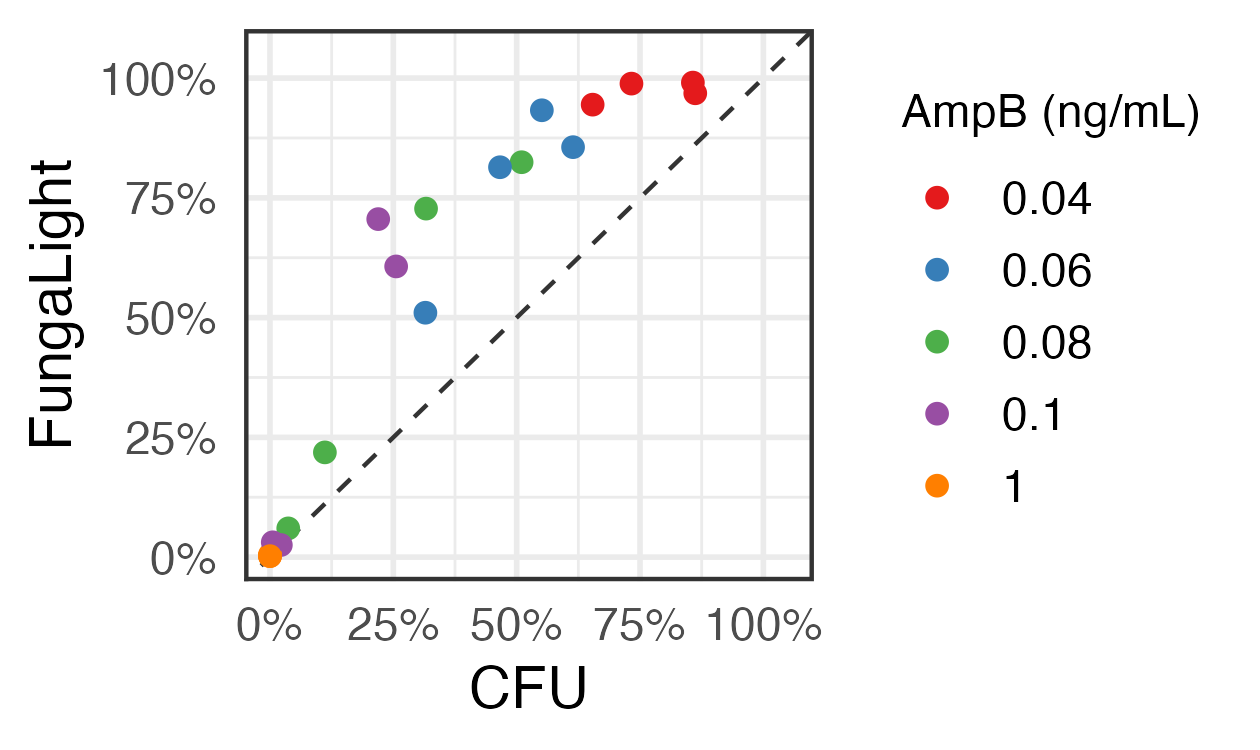
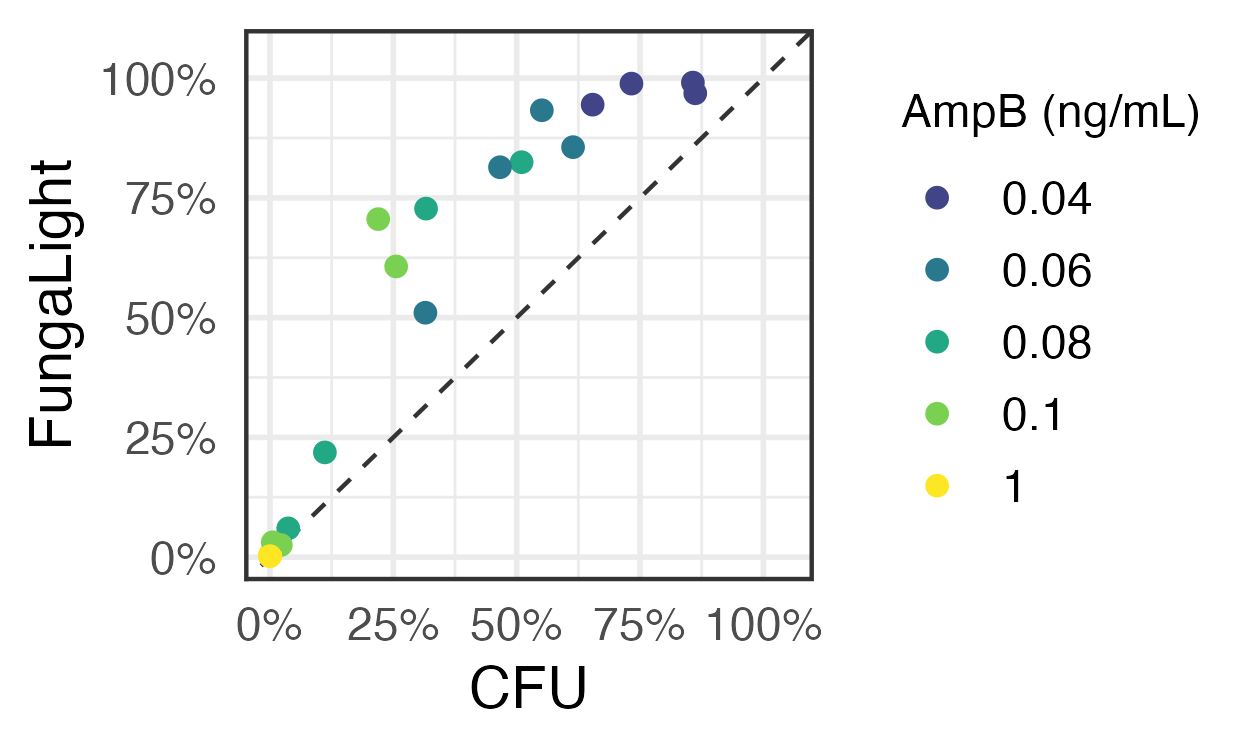
change stat test for CFU back to p_live
also changed color palettes for the scatter plot of CFU vs FGL for AmpB

diff --git a/30-Extend-across-species-stress/32-apply-to-AmpB/output/20250402-Cg-AmpB-CFU-FGL-stat-test-results.md b/30-Extend-across-species-stress/32-apply-to-AmpB/output/20250402-Cg-AmpB-CFU-FGL-stat-test-results.md
@@ -30,25 +30,25 @@ TukeyHSD(tmp)
   Tukey multiple comparisons of means
     95% family-wise confidence level
 
-Fit: aov(formula = CFU ~ Treatment, data = dplyr::filter(cfu_calc, Treatment != "0.02"))
+Fit: aov(formula = p_live ~ Treatment, data = dplyr::filter(cfu_calc, Treatment != "0.02"))
 
 $Treatment
-            diff        lwr        upr     p adj
-0.04-0    -20150  -45825.17   5525.174 0.1775675
-0.06-0    -44350  -70025.17 -18674.826 0.0004012
-0.08-0    -65175  -90850.17 -39499.826 0.0000029
-0.1-0     -74250  -99925.17 -48574.826 0.0000004
-1-0       -84750 -110425.17 -59074.826 0.0000001
-0.06-0.04 -24200  -49875.17   1475.174 0.0713736
-0.08-0.04 -45025  -70700.17 -19349.826 0.0003377
-0.1-0.04  -54100  -79775.17 -28424.826 0.0000359
-1-0.04    -64600  -90275.17 -38924.826 0.0000032
-0.08-0.06 -20825  -46500.17   4850.174 0.1537928
-0.1-0.06  -29900  -55575.17  -4224.826 0.0172606
-1-0.06    -40400  -66075.17 -14724.826 0.0011115
-0.1-0.08   -9075  -34750.17  16600.174 0.8654365
-1-0.08    -19575  -45250.17   6100.174 0.2000838
-1-0.1     -10500  -36175.17  15175.174 0.7814841
+                diff        lwr         upr     p adj
+0.04-0    -0.2235581 -0.4979459  0.05082975 0.1507038
+0.06-0    -0.5133742 -0.7877620 -0.23898636 0.0001580
+0.08-0    -0.7563515 -1.0307393 -0.48196365 0.0000009
+0.1-0     -0.8743160 -1.1487039 -0.59992822 0.0000001
+1-0       -1.0000000 -1.2743878 -0.72561218 0.0000000
+0.06-0.04 -0.2898161 -0.5642039 -0.01542829 0.0349819
+0.08-0.04 -0.5327934 -0.8071812 -0.25840559 0.0001006
+0.1-0.04  -0.6507580 -0.9251458 -0.37637016 0.0000074
+1-0.04    -0.7764419 -1.0508298 -0.50205412 0.0000006
+0.08-0.06 -0.2429773 -0.5173651  0.03141052 0.1004775
+0.1-0.06  -0.3609419 -0.6353297 -0.08655405 0.0063011
+1-0.06    -0.4866258 -0.7610136 -0.21223801 0.0002967
+0.1-0.08  -0.1179646 -0.3923524  0.15642324 0.7454969
+1-0.08    -0.2436485 -0.5180364  0.03073928 0.0990397
+1-0.1     -0.1256840 -0.4000718  0.14870386 0.6946001
 ```
 
 ### FGL/p_live
